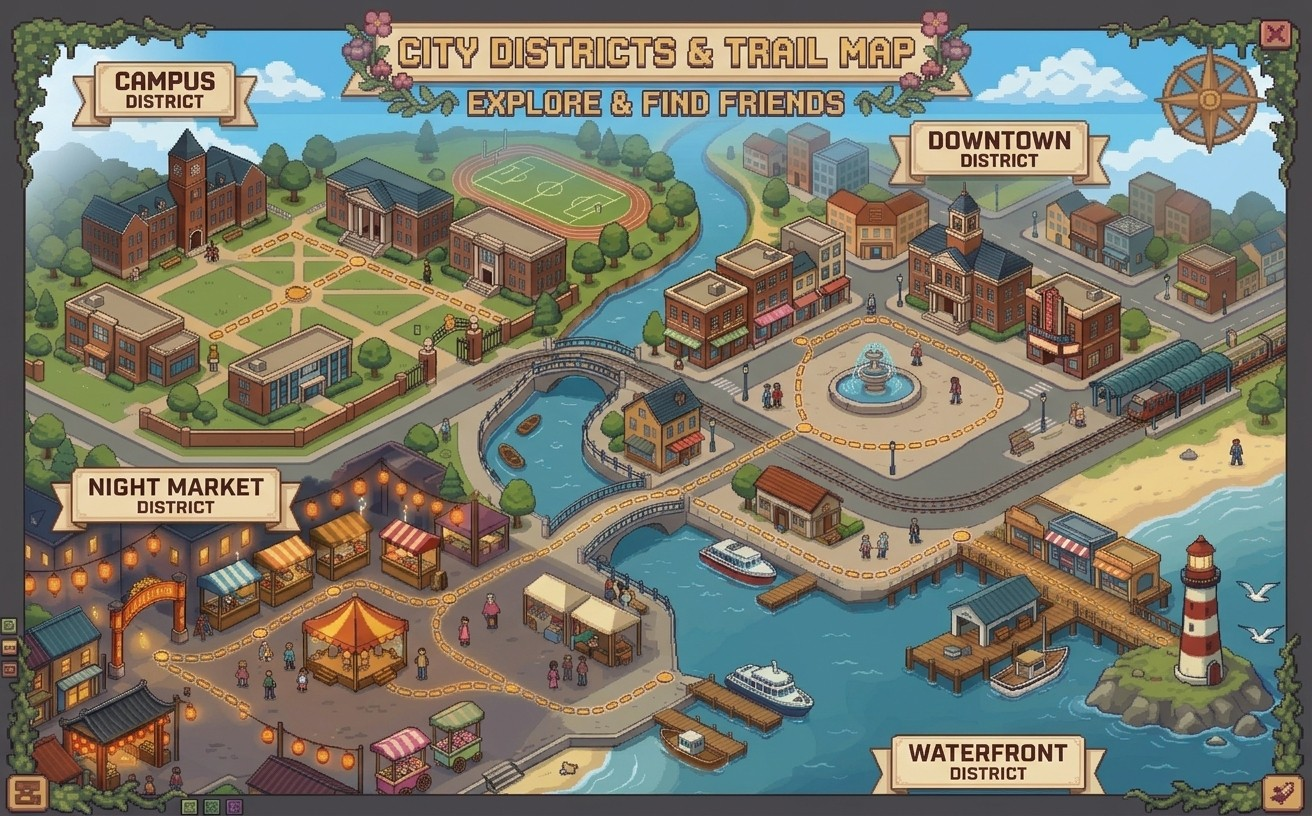
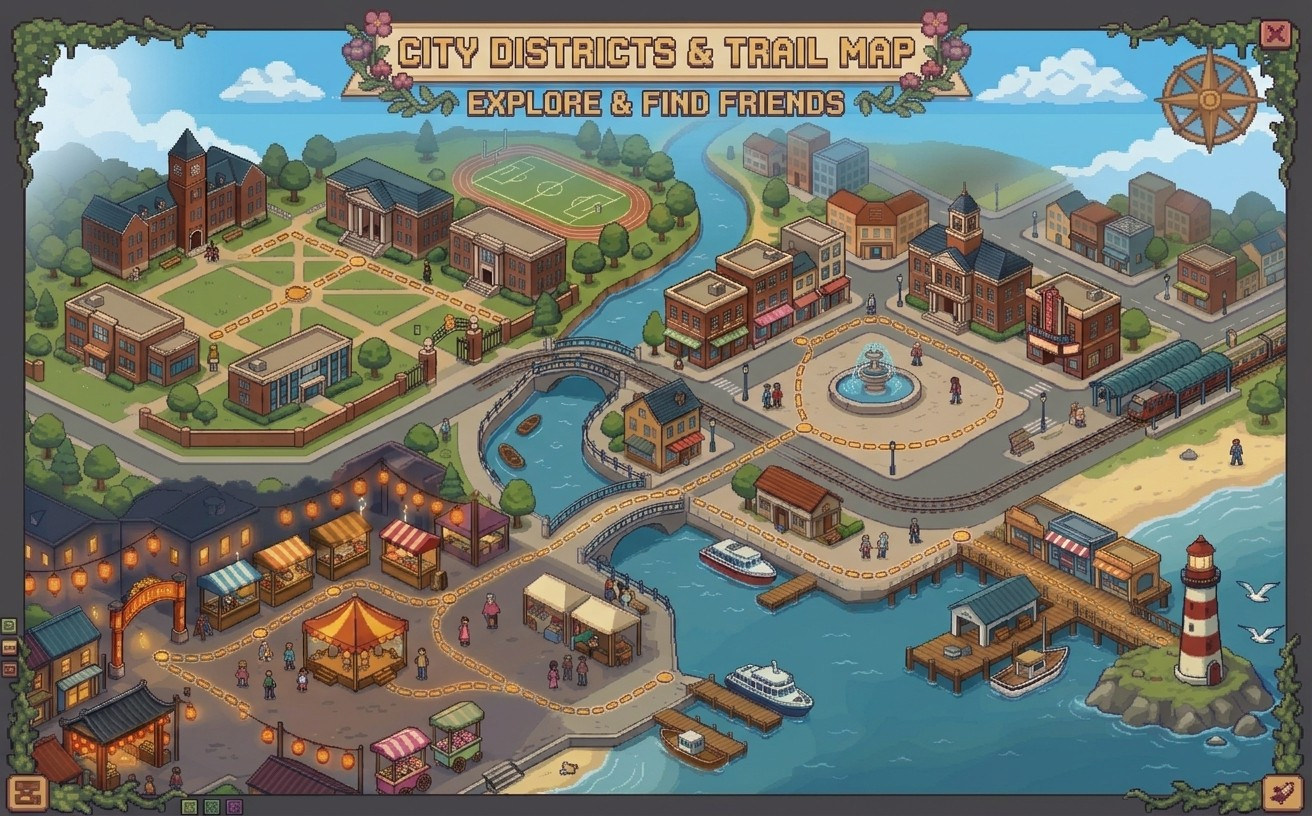
[game] menu: city map v4, layout M6 with equal district boxes (Gabriella's pick)
Map edge to edge (top banner trimmed), every button in a row top left, four
equal district boxes with the name-and-stars badge at the bottom middle,
level cards with the friends' faces on a bottom strip. Earlier layout and
badge drafts stay on the dev server (?menuLayout=m0..m7, ?badges=...).

diff --git a/game/src/ui/cityMap.js b/game/src/ui/cityMap.js
@@ -101,54 +101,94 @@ export function cityMap(scene, opts) {
   return { select, unlocked: LAYOUT.map((d) => d.chapter).filter((ch) => openChapters.has(ch)) };
 }
 
-// ---- the real map (assets/art/City Map.jpg -> texture 'city_map', 1312x816; picked draft city_map_v3)
+// ---- the real map (assets/art/City Map.jpg -> texture 'city_map', 1312x816; draft city_map_v4, no painted district signs)
 
 /**
- * Where each district sits on the picture, in the picture's own pixels: the click area, and where its star
- * badge goes (next to the district's painted label). Scaled to whatever size the map is drawn at.
+ * Where each district sits on the picture, in the picture's own pixels: the click area, and where its badge
+ * goes. The picture has no painted district signs, so the badge carries the name as well as the stars.
+ * Scaled to whatever size the map is drawn at.
  */
 export const ART_DISTRICTS = [
-  { chapter: 1, district: 'campus', area: [30, 110, 640, 440], badge: [262, 150] },
-  { chapter: 2, district: 'downtown', area: [650, 120, 1290, 470], badge: [1010, 210] },
-  { chapter: 3, district: 'night_market', area: [20, 445, 690, 800], badge: [187, 550] },
-  { chapter: 4, district: 'waterfront', area: [700, 480, 1290, 800], badge: [978, 710] },
+  { chapter: 1, district: 'campus', name: 'CAMPUS', area: [30, 60, 640, 440], badge: [390, 330] },
+  { chapter: 2, district: 'downtown', name: 'DOWNTOWN', area: [650, 120, 1290, 470], badge: [1010, 230], rowBottom: 440 },
+  { chapter: 3, district: 'night_market', name: 'NIGHT MARKET', area: [20, 445, 690, 800], badge: [220, 545] },
+  { chapter: 4, district: 'waterfront', name: 'WATERFRONT', area: [700, 480, 1290, 800], badge: [980, 760] },
 ];
+
+// Dev server only: ?badges=bl|mid|br|bm puts every district badge at the bottom left, middle, bottom right or
+// bottom middle of its area; split puts the west ones bottom left and the east ones bottom right
+// (badge placement drafts for Gabriella, 2026-11-23/24).
+const BADGES_AT = import.meta.env.DEV ? new URLSearchParams(window.location.search).get('badges') : null;
+// grid: equal boxes instead of the painted areas, as [column, row].
+const GRID = { campus: [0, 0], downtown: [1, 0], night_market: [0, 1], waterfront: [1, 1] };
 
 /** True when the menu should use the full-width picture layout. */
 export const hasCityMapArt = (scene) => scene.textures.exists(CITY_MAP_KEY);
 
-/** The picture drawn to fill opts.w (its height follows the picture's shape), with district hotspots on it. */
+/**
+ * The picture drawn to fill opts.w (its height follows the picture's shape), with district hotspots on it.
+ * opts.cropTop (picture pixels) trims the top strip off, so a full-width map can fit a shorter space.
+ */
 function artMap(scene, opts) {
   const { x, y, w, levels = [], open = [], totals = { byChapter: {} }, onSelect } = opts;
   const openChapters = new Set(open.map((l) => l.chapter));
+  const crop = opts.cropTop || 0;
+  // Equal boxes in a 2x2 grid (opts.grid, the default layout since Gabriella picked it, 2026-11-24); a ?badges= draft overrides.
+  const useGrid = BADGES_AT ? BADGES_AT === 'grid' : !!opts.grid;
   const img = scene.add.image(x, y, CITY_MAP_KEY).setOrigin(0);
   const k = w / img.width;
-  img.setScale(k);
-  const h = img.height * k;
+  img.setScale(k).setCrop(0, crop, img.width, img.height - crop).setPosition(x, y - crop * k);
+  const h = (img.height - crop) * k;
   const frame = scene.add.graphics();
   frame.lineStyle(4, C.bar, 1).strokeRoundedRect(x - 2, y - 2, w + 4, h + 4, 10);
   const px = (ix) => x + ix * k;
-  const py = (iy) => y + iy * k;
+  const py = (iy) => y + (Math.max(iy, crop) - crop) * k;
 
   const rings = {};
   for (const d of ART_DISTRICTS) {
     const district = levels.find((l) => l.chapter === d.chapter)?.district || d.district;
     const unlocked = openChapters.has(d.chapter);
     const [ax1, ay1, ax2, ay2] = d.area;
-    const rx = px(ax1), ry = py(ay1), rw = (ax2 - ax1) * k, rh = (ay2 - ay1) * k;
+    let rx = px(ax1), ry = py(ay1), rw = (ax2 - ax1) * k, rh = py(ay2) - ry; // py clamps a trimmed top
+    if (useGrid) {
+      // Grid: four equal boxes in a 2x2 grid (below the button row), badge at the bottom middle of each.
+      const gm = 10, gg = 8, gt = 52;
+      const gw = (w - 2 * gm - gg) / 2, gh = (h - gt - gm - gg) / 2;
+      const [col, row] = GRID[d.district];
+      rx = x + gm + col * (gw + gg); ry = y + gt + row * (gh + gg); rw = gw; rh = gh;
+    }
     if (!unlocked) scene.add.graphics().fillStyle(0x000000, 0.58).fillRoundedRect(rx, ry, rw, rh, 12);
 
-    // Badge next to the painted label: star total when open, LOCKED when not.
-    const bx = px(d.badge[0]), by = py(d.badge[1]);
+    // Badge: the district's name, then its star total when open, LOCKED when not.
     const t = totals.byChapter[d.chapter] || { earned: 0, max: 0 };
     const label = unlocked ? `${t.earned} / ${t.max}` : 'LOCKED';
-    const txt = scene.add.text(0, 0, label, pixel(14, unlocked ? (t.perfect ? C.highlight : C.label) : C.goldDim, { fontStyle: 'bold' }));
-    const bw = txt.width + (unlocked ? 40 : 22), bh = 26;
+    const nm = scene.add.text(0, 0, d.name, pixel(14, unlocked ? C.label : C.goldDim, { fontStyle: 'bold' }));
+    const txt = scene.add.text(0, 0, label, pixel(13, unlocked ? (t.perfect ? C.highlight : C.label) : C.goldDim));
+    const gap = unlocked ? 34 : 14;
+    const bw = nm.width + gap + txt.width + 24, bh = 28;
+    let bx = px(d.badge[0]), by = py(d.badge[1]);
+    if (useGrid) {
+      bx = rx + rw / 2;
+      by = ry + rh - 10 - bh / 2;
+    } else if (BADGES_AT) {
+      // Badge placement drafts (?badges=bl|mid|br|bm): the same spot in every district's area.
+      const pad = 14;
+      const left = rx + pad + bw / 2, right = rx + rw - pad - bw / 2, centre = rx + rw / 2;
+      // split: the west districts (Campus, Night Market) bottom left, the east ones (Downtown, Waterfront) bottom right.
+      const split = d.district === 'campus' || d.district === 'night_market' ? left : right;
+      bx = { bl: left, br: right, bm: centre, mid: centre, split }[BADGES_AT] ?? bx;
+      // Bottom placements: Downtown's badge lines up with Campus's (rowBottom), not its own area's lower edge.
+      const bottom = BADGES_AT !== 'mid' && d.rowBottom ? py(d.rowBottom) : ry + rh;
+      by = BADGES_AT === 'mid' ? ry + rh / 2 : bottom - pad - bh / 2;
+      // bm: the top row (Campus, Downtown) sits a little lower, so Downtown's badge clears the fountain.
+      if (BADGES_AT === 'bm' && (d.district === 'campus' || d.district === 'downtown')) by += 34;
+    }
     const plate = scene.add.graphics();
-    plate.fillStyle(C.bg, 0.88).fillRoundedRect(bx - bw / 2, by - bh / 2, bw, bh, 13);
-    plate.lineStyle(2, unlocked ? C.label : C.goldDim, 0.8).strokeRoundedRect(bx - bw / 2, by - bh / 2, bw, bh, 13);
-    txt.setPosition(bx - bw / 2 + (unlocked ? 30 : 11), by - txt.height / 2).setDepth(1);
-    if (unlocked) star(scene.add.graphics().setDepth(1), bx - bw / 2 + 16, by, 7, t.earned > 0);
+    plate.fillStyle(C.bg, 0.9).fillRoundedRect(bx - bw / 2, by - bh / 2, bw, bh, 14);
+    plate.lineStyle(2, unlocked ? C.label : C.goldDim, 0.8).strokeRoundedRect(bx - bw / 2, by - bh / 2, bw, bh, 14);
+    nm.setPosition(bx - bw / 2 + 12, by - nm.height / 2).setDepth(1);
+    txt.setPosition(nm.x + nm.width + gap, by - txt.height / 2).setDepth(1);
+    if (unlocked) star(scene.add.graphics().setDepth(1), nm.x + nm.width + 17, by, 7, t.earned > 0);
 
     const ring = scene.add.graphics().setDepth(2);
     const drawRing = (mode) => {

diff --git a/game/src/scenes/MenuScene.js b/game/src/scenes/MenuScene.js
@@ -8,12 +8,28 @@ import { cityMap, hasCityMapArt } from '../ui/cityMap.js';
 import { tween } from '../ui/motion.js';
 import { play as playSfx } from '../ui/sfx.js';
 
-// Map layout drafts for Gabriella (2026-11-23): ?menuLayout=m1|m2|m3, default = today's layout.
+// Map layout drafts for Gabriella (2026-11-23): ?menuLayout=m0..m7. The default ('current') is her pick, M6 with the
+// grid boxes; m0 is the layout before it.
 //   m1: buttons in a row across the top, a smaller map on the left with the chapter under it, the level list on the right
 //   m2: the map edge to edge across the top, the level cards on a dark strip along the bottom
 //   m3: a sidebar with every button, a bigger map beside it, tall level cards with the friends' faces
+// Round 2 with the new map (city_map_v3, taller): maxH caps the map's height so the cards still fit.
+//   m4: m1's button row across the top, the map centred under it, level cards in a row (as now)
+//   m5: m3's sidebar, the biggest map, level cards in a row (as now)
+// Round 3 with city_map_v4 (no painted signs; the badges carry the district names):
+//   m6: the map edge to edge (its top strip trimmed), every button in a row in the top-left corner over the map,
+//       level cards in a row on a bottom strip, each with the friends' faces
+//   m7: as m6, with the buttons stacked in a column in the top-left corner
 const MENU_LAYOUTS = {
+  // The menu (Gabriella's pick, 2026-11-24: M6, bottom middle, lined up): the map edge to edge with its top banner
+  // trimmed, every button in a row in the top-left corner, four equal district boxes with the badge at the bottom
+  // middle of each, level cards with the friends' faces on a bottom strip.
   current: {
+    map: { x: 0, y: 0, w: W, cropTop: 122, grid: true }, cards: 'faces', row: { left: 60, right: W - 24 }, strip: true,
+    btn: { title: [62, 26, 100], options: [170, 26, 104], credits: [282, 26, 104], friends: [394, 26, 104], scrap: [530, 26, 152] },
+    total: [W - 16, 14],
+  },
+  m0: {
     map: { x: 24, y: 12, w: W - 48 }, maxH: 498, cards: 'row', row: { left: 60, right: W - 24 },
     btn: { title: [90, 30, 140], options: [90, 72, 140], credits: [90, 114, 140], scrap: [W - 100, 40, 168], friends: [W - 100, 112, 168] },
     total: [W - 30, 72],
@@ -24,14 +40,34 @@ const MENU_LAYOUTS = {
     total: [632, 72],
   },
   m2: {
-    map: { x: 0, y: 0, w: W }, cards: 'row', row: { left: 60, right: W - 24 }, strip: true,
+    map: { x: 0, y: 0, w: W }, maxH: 520, cards: 'row', row: { left: 60, right: W - 24 }, strip: true,
     btn: { title: [90, 30, 140], options: [90, 72, 140], credits: [90, 114, 140], scrap: [W - 100, 30, 168], friends: [W - 100, 72, 168] },
     total: [W - 30, 100],
   },
   m3: {
-    map: { x: 206, y: 14, w: W - 222 }, cards: 'tall', row: { left: 206, right: W - 16 }, sidebar: 190,
+    map: { x: 206, y: 14, w: W - 222 }, maxH: 425, cards: 'tall', row: { left: 206, right: W - 16 }, sidebar: 190,
     btn: { title: [95, 34, 160], options: [95, 80, 160], credits: [95, 126, 160], friends: [95, 190, 160], scrap: [95, 236, 160] },
     total: [150, 290],
+  },
+  m4: {
+    map: { x: 24, y: 58, w: W - 48 }, maxH: 440, cards: 'row', row: { left: 60, right: W - 24 },
+    btn: { title: [94, 28, 140], options: [244, 28, 140], credits: [394, 28, 140], friends: [W - 280, 28, 168], scrap: [W - 100, 28, 168] },
+    total: [W - 30, 62],
+  },
+  m5: {
+    map: { x: 206, y: 14, w: W - 222 }, maxH: 484, cards: 'row', row: { left: 206, right: W - 16 }, sidebar: 190,
+    btn: { title: [95, 34, 160], options: [95, 80, 160], credits: [95, 126, 160], friends: [95, 190, 160], scrap: [95, 236, 160] },
+    total: [150, 290],
+  },
+  m6: {
+    map: { x: 0, y: 0, w: W, cropTop: 122 }, cards: 'faces', row: { left: 60, right: W - 24 }, strip: true,
+    btn: { title: [62, 26, 100], options: [170, 26, 104], credits: [282, 26, 104], friends: [394, 26, 104], scrap: [530, 26, 152] },
+    total: [W - 16, 14],
+  },
+  m7: {
+    map: { x: 0, y: 0, w: W, cropTop: 122 }, cards: 'faces', row: { left: 60, right: W - 24 }, strip: true,
+    btn: { title: [84, 26, 152], options: [84, 66, 152], credits: [84, 106, 152], friends: [84, 146, 152], scrap: [84, 186, 152] },
+    total: [W - 16, 14],
   },
 };
 const menuLayout = () => MENU_LAYOUTS[new URLSearchParams(window.location.search).get('menuLayout')] || MENU_LAYOUTS.current;
@@ -178,7 +214,7 @@ export default class MenuScene extends Phaser.Scene {
     this.levelCards = [];
     this.focus = 0;
     if (!lvls.length) return;
-    if (this.art && this.ML.cards === 'row') return this.showChapterRow(c, chapter, lvls, totals, progress);
+    if (this.art && (this.ML.cards === 'row' || this.ML.cards === 'faces')) return this.showChapterRow(c, chapter, lvls, totals, progress);
     if (this.art && this.ML.cards === 'tall') return this.showChapterTall(c, chapter, lvls, totals, progress);
     const L = this.art ? this.ML.list : { left: 520, right: W - 24, top: 140 };
     const left = L.left;
@@ -319,10 +355,18 @@ export default class MenuScene extends Phaser.Scene {
       const x = left + i * (cw + gap);
       c.add(panel(this, x, top, cw, ch, C.panel, 8));
       c.add(this.add.text(x + 14, top + 16, `LEVEL ${lvl.number}`, pixel(17, C.ink, { fontStyle: 'bold' })).setOrigin(0, 0.5));
-      c.add(this.add.text(x + 14, top + 36, `${lvl.guests.length} friends`, text(12, C.inkSoft)).setOrigin(0, 0.5));
+      // Narrow cards (m5's sidebar leaves less room): the stars get their own line under the level name.
+      const narrow = cw < 160 && this.ML.cards !== 'faces';
+      if (this.ML.cards === 'faces') {
+        // m6/m7: the friends coming along, as a row of faces under the level name
+        const n = lvl.guests.length, size = 26, step = Math.min(size + 4, (cw - 28 - size) / Math.max(1, n - 1));
+        lvl.guests.forEach((id, k) => c.add(portrait(this, x + 14 + size / 2 + k * step, top + 52, size, id, 'HAPPY')));
+      } else {
+        c.add(this.add.text(x + 14, top + (narrow ? 62 : 36), `${lvl.guests.length} friends`, text(12, C.inkSoft)).setOrigin(0, 0.5));
+      }
       const g = this.add.graphics();
       const best = progress[lvl.id] || 0;
-      for (let s = 0; s < 3; s++) star(g, x + cw - 64 + s * 22, top + 18, 8, s < best);
+      for (let s = 0; s < 3; s++) star(g, narrow ? x + 22 + s * 22 : x + cw - 64 + s * 22, top + (narrow ? 40 : 18), 8, s < best);
       c.add(g);
       const hit = this.add.zone(x + cw / 2, top + ch / 2, cw, ch).setInteractive({ useHandCursor: true });
       hit.on('pointerdown', () => { playSfx(this, 'click'); this.scene.start('Chat', { levelId: lvl.id }); });

diff --git a/game/CLAUDE.md b/game/CLAUDE.md
@@ -77,6 +77,7 @@ Run `npm run boot-test` before every commit.
   - **Reset progress** also clears the How to play and chapter cards already seen (so a fresh start shows them again) and the friends already welcomed. Settings and music stay.
   - **How to play** always shows over a real level screen: the first visit to level 1 shows its first 2 messages behind the steps; "How to play" in Options opens level 1 with its first 4 messages behind the steps, then returns to Options.
   - **City map menu uses `assets/art/City Map.jpg`** (`tools/slice_portraits.py` → `public/art-preview/ui/city_map.jpg`, manifest group `ui`, texture `city_map`). The map runs full width with the title painted in, so the menu draws no title; the districts are click areas placed on the picture (`ART_DISTRICTS` in `src/ui/cityMap.js`, in the picture's pixels), locked ones darkened, each with a star badge by its label. The chosen district's levels show in a row of cards below. Without the picture, the old placeholder map and list are used.
+  - **Menu layout: M6, bottom middle, lined up** (`MENU_LAYOUTS.current` in `src/scenes/MenuScene.js`, `cityMap` `grid`; Gabriella's pick, 2026-11-24). The map is `city_map_v4` (no painted district signs or title banner use: its top 122 px are trimmed, `cropTop`) drawn edge to edge. Title, Options, Credits, Friends and Scrapbook sit in one row in the top-left corner over the map; the campaign star total is top right. The four districts are equal boxes in a 2x2 grid under the button row (they are also the click areas and the locked darkening), each with a badge at its bottom middle showing the district name and its stars (or LOCKED). The chosen district's five level cards sit on a dark strip along the bottom, each with its stars and the faces of the friends coming. The earlier drafts stay reachable on the dev server: `?menuLayout=m0..m7` (m0 = the layout before) and `?badges=bl|mid|br|bm|split|grid`.
   - **Muted speaker slash** (`drawMutedSlash(g)` in `src/scenes/HudScene.js`; bible: Game identity > Audio). When music is Off or the volume is 0, the Hud's speaker button shows no sound waves and a bold 3 px slash in `C.bad` right across the round button, from its top-left edge to its bottom-right edge, over the speaker. It redraws at once when the slider reaches 0 or On/Off is switched (the `onVolume` listener) (feature agent, 2026-11-13).
   - **White muted slash** (`drawMutedSlash(g)` in `src/scenes/HudScene.js`; bible: Game identity > Audio). The muted speaker's 3 px slash is now white (`0xffffff`) instead of `C.bad`, still right across the round button from its top-left edge to its bottom-right edge, over the speaker, with no sound waves; it shows when music is Off or the volume is 0 and redraws at once on the slider or On/Off switch (feature agent, 2026-11-13).
   - **Volume panel closes outside** (`closeIfOutside(x, y)` in `src/scenes/HudScene.js`; bible: Game identity > Audio, Gabriella 2026-11-13). The open panel closes on any press outside the `PANEL` box and the speaker button: anywhere on any screen (the Hud is on top, so it hears presses over other screens' buttons and cards, which still work) and anywhere in the page outside the canvas (a `window` pointerdown listener, removed when the Hud shuts down). Presses inside the box (slider, On/Off, background) keep it open. Esc (`keydown-ESC`) closes it without stopping the screen underneath from using Esc as back; M still toggles (feature agent, 2026-11-13).
